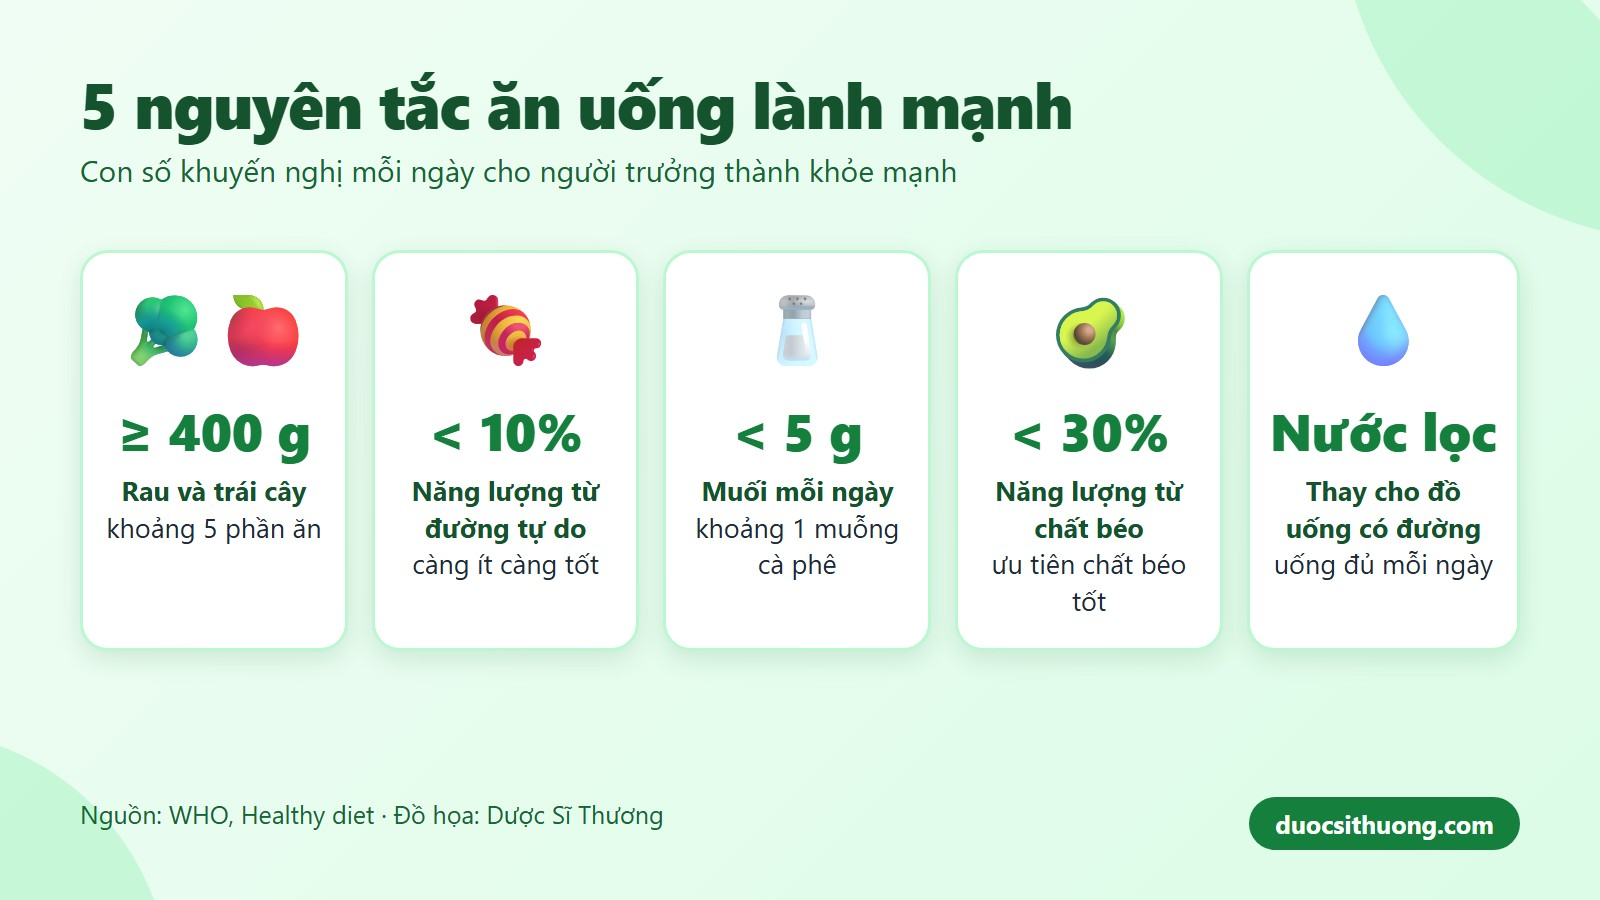
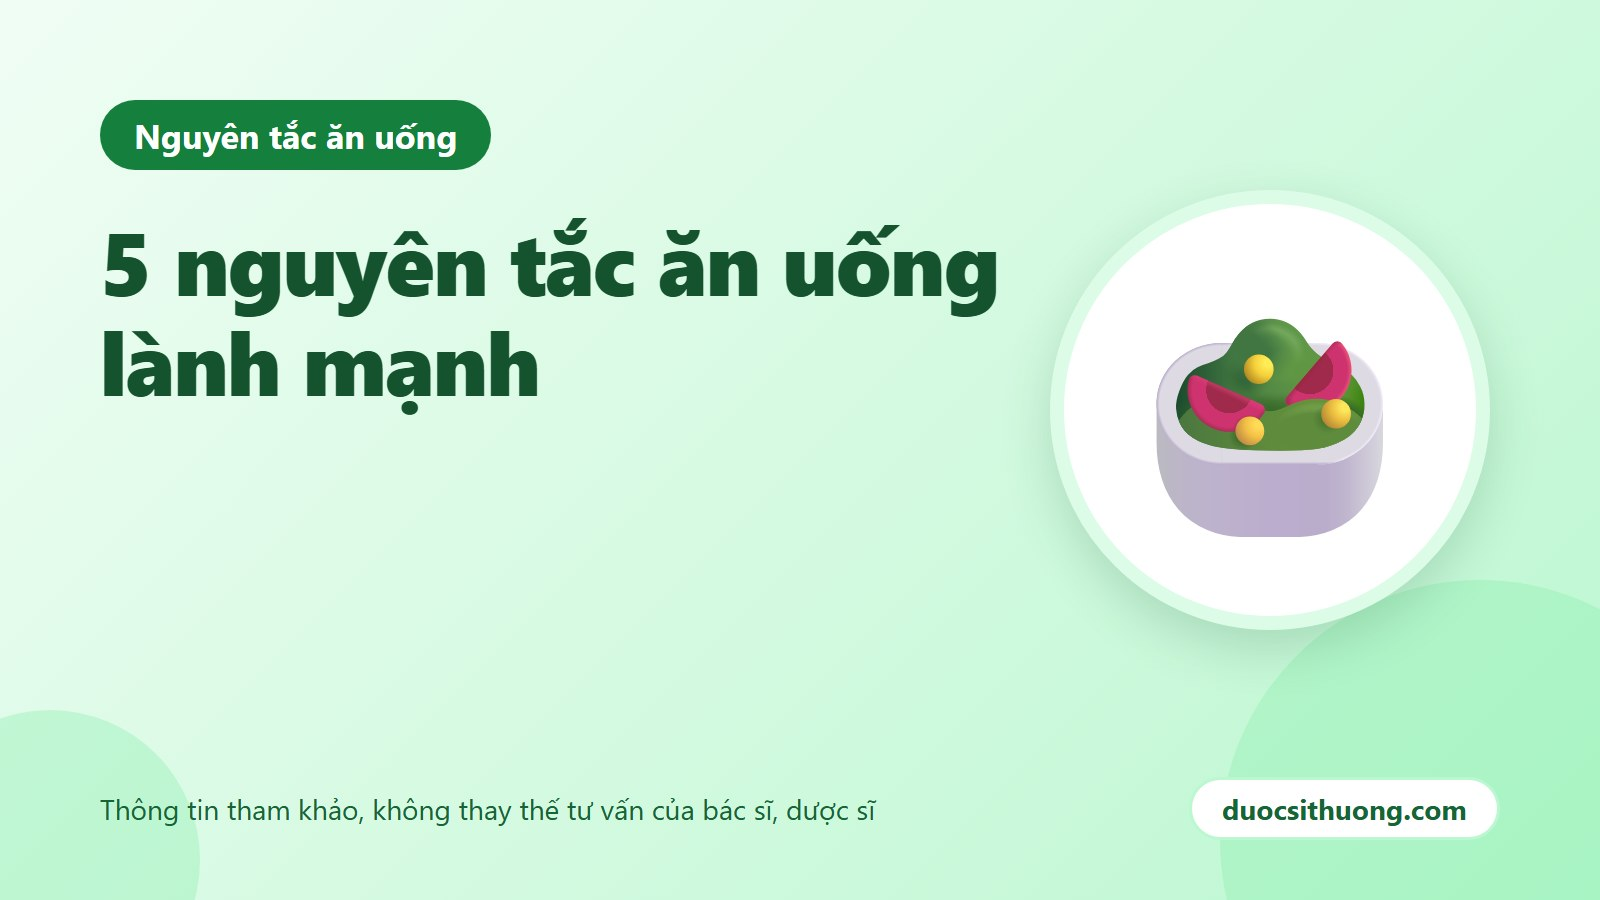
Redo the two infographics in "5 nguyên tắc ăn uống lành mạnh" for mobile readability
Simplify the cover to the standard label style (no data), move the 5 WHO
principles and the fat-limit breakdown into two new 1000px-wide, large-text
images (hinh-1.jpg, hinh-2.jpg), replacing the old 1600x900 widescreen
graphics whose text became unreadable when scaled down on phones. Same WHO
Healthy diet figures, no new data.

diff --git a/src/content/posts/nguyen-tac-an-uong-lanh-manh.md b/src/content/posts/nguyen-tac-an-uong-lanh-manh.md
@@ -6,8 +6,8 @@ subcategory: "nguyen-tac"
 publishedAt: 2026-09-21
 updatedAt: 2026-09-21
 cover: "../../assets/posts/nguyen-tac-an-uong-lanh-manh/cover.jpg"
-coverAlt: "Đồ họa 5 nguyên tắc ăn uống lành mạnh mỗi ngày: ít nhất 400 g rau và trái cây, đường tự do dưới 10% năng lượng, muối dưới 5 g, chất béo dưới 30% năng lượng, uống nước lọc thay đồ uống có đường"
-coverCredit: "Đồ họa: Dược Sĩ Thương. Số liệu: WHO, Healthy diet."
+coverAlt: "Ảnh minh họa bài viết 5 nguyên tắc ăn uống lành mạnh: nhãn nhóm Nguyên tắc ăn uống, tiêu đề bài và biểu tượng bát salad trên nền xanh lá"
+coverCredit: "Đồ họa: Dược Sĩ Thương"
 sources:
   - title: "WHO - Healthy diet (Chế độ ăn lành mạnh)"
     url: "https://www.who.int/news-room/fact-sheets/detail/healthy-diet"
@@ -18,6 +18,9 @@ draft: false
 ## Tóm tắt nhanh
 
 Ăn uống lành mạnh không cần cầu kỳ. Bạn chỉ cần ăn đa dạng, nhiều rau quả, ít đường, ít muối và ít chất béo không tốt. Các con số dưới đây áp dụng cho **người trưởng thành khỏe mạnh**.
+
+![5 nguyên tắc ăn uống lành mạnh theo WHO: ăn đa dạng ít nhất 400 g rau và trái cây mỗi ngày, đường tự do dưới 10% năng lượng, muối dưới 5 g mỗi ngày, tổng chất béo dưới 30% năng lượng, ưu tiên nước lọc](../../assets/posts/nguyen-tac-an-uong-lanh-manh/hinh-1.jpg)
+*Đồ họa: Dược Sĩ Thương. Nguồn: WHO, Healthy diet.*
 
 ## 1. Ăn đa dạng, nhiều rau và trái cây
 
@@ -38,8 +41,8 @@ Nên dùng **dưới 5 g muối mỗi ngày** (khoảng 1 muỗng cà phê). Lư
 - Chất béo chuyển hóa (có trong một số đồ chiên rán, bánh nướng công nghiệp) nên dưới 1%.
 - Ưu tiên chất béo không bão hòa như cá, quả bơ, các loại hạt và dầu thực vật.
 
-![Biểu đồ cột ngang thể hiện giới hạn chất béo mỗi ngày theo tỷ lệ tổng năng lượng ăn vào: tổng chất béo dưới 30%, chất béo bão hòa dưới 10%, chất béo chuyển hóa dưới 1%](../../assets/posts/nguyen-tac-an-uong-lanh-manh/fats.jpg)
-*Đồ họa: Dược Sĩ Thương. Số liệu: WHO, Healthy diet.*
+![Giới hạn chất béo mỗi ngày tính theo % tổng năng lượng ăn vào: tổng chất béo dưới 30%, chất béo bão hòa dưới 10%, chất béo chuyển hóa dưới 1%, ưu tiên chất béo không bão hòa từ cá, quả bơ, các loại hạt, dầu thực vật](../../assets/posts/nguyen-tac-an-uong-lanh-manh/hinh-2.jpg)
+*Đồ họa: Dược Sĩ Thương. Nguồn: WHO, Healthy diet.*
 
 ## 5. Uống đủ nước lọc
 

diff --git a/CLAUDE.md b/CLAUDE.md
@@ -288,7 +288,7 @@ Mỗi bài nên có **ảnh đại diện** (`cover`) và 1-3 hình minh họa t
 - **Mô tả ảnh (alt) bắt buộc** với ảnh đại diện (build sẽ báo lỗi nếu thiếu `coverAlt`) và nên có với mọi ảnh: mô tả nội dung/số liệu trong ảnh, không viết chung chung như "hình minh họa".
 - **Bản quyền:** chỉ dùng (1) ảnh do chủ website tự chụp, (2) đồ họa tự thiết kế, (3) ảnh có giấy phép cho dùng miễn phí như Unsplash, Pexels, Pixabay hoặc Wikimedia Commons, **ghi rõ nguồn** ở `coverCredit` hoặc dòng in nghiêng. **Không lấy ảnh từ website khác, từ Google Hình ảnh hay từ Facebook** khi chưa được phép. Nếu chưa chắc giấy phép thì không dùng.
 - **Nội dung ảnh:** không dùng ảnh bệnh nhân thật, ảnh gây sốc hoặc phản cảm (vết thương, bệnh ngoài da...), ảnh trước-sau như hứa hẹn điều trị, ảnh có logo/thương hiệu thuốc hay thực phẩm chức năng cụ thể (tránh thành quảng cáo). Không đưa hình có khuôn mặt người khác khi chưa được đồng ý.
-- **Số liệu trong đồ họa** phải khớp đúng với nguồn trong bài; biểu đồ vẽ đúng tỷ lệ, không phóng đại. Ví dụ mẫu: bài "5 nguyên tắc ăn uống lành mạnh" có hai đồ họa tự thiết kế (số liệu WHO). Các đồ họa mẫu này được dựng bằng HTML/CSS rồi chụp thành ảnh (màu xanh lá `#15803d`, nền `#f0fdf4`, cam `#ea580c` để nhấn), có ghi nguồn và địa chỉ website ở chân ảnh.
+- **Số liệu trong đồ họa** phải khớp đúng với nguồn trong bài; biểu đồ vẽ đúng tỷ lệ, không phóng đại. Ví dụ mẫu: bài "5 nguyên tắc ăn uống lành mạnh" có ảnh bìa kiểu nhãn nhóm và hai hình minh họa dạng danh sách ô lớn (`hinh-1.jpg`, `hinh-2.jpg`, số liệu WHO; làm lại 2026-09-22 theo khổ 1000px/chữ lớn thay cho bản 1600x900 cũ khó đọc trên điện thoại). Đồ họa được dựng bằng HTML/CSS rồi chụp thành ảnh (màu xanh lá `#15803d`, nền `#f0fdf4`, cam `#ea580c` để nhấn), có ghi nguồn và địa chỉ website ở chân ảnh; xem thêm mục "Ảnh đại diện của các bài về thuốc" và "Hình trong bài về thuốc" phía trên cho quy cách khổ 1000px/chữ ≥30px.
 
 ### Định hướng chung
 

diff --git a/docs/ghi-chu-kiem-duyet-thieu-gi-an-gi.md b/docs/ghi-chu-kiem-duyet-thieu-gi-an-gi.md
@@ -53,4 +53,4 @@ Trạng thái: 8 bài đã đăng ở dạng "bản xem thử" (có khung vàng,
 - Cần kiểm tra thêm: cách diễn đạt liều bổ sung cho phụ nữ chuẩn bị mang thai theo khuyến cáo của Bộ Y tế Việt Nam; mục "Khi nào cần đi khám".
 
 ### nguyen-tac-an-uong-lanh-manh (bài đã có từ trước, nay thuộc nhóm "Nguyên tắc ăn uống")
-- Nguồn: WHO Healthy diet. Hai hình minh họa làm trước có chữ nhỏ, nên làm lại theo khổ mới cho dễ đọc trên điện thoại.
+- Nguồn: WHO Healthy diet. **Đã làm lại ảnh (2026-09-22):** ảnh bìa đổi sang kiểu nhãn nhóm đơn giản (giống các bài khác, không còn chứa số liệu); 2 hình minh họa cũ (`cover.jpg` bản gộp 5 nguyên tắc, `fats.jpg`) thay bằng `hinh-1.jpg`/`hinh-2.jpg` theo khổ 1000px, chữ lớn, dễ đọc trên điện thoại. Số liệu giữ nguyên như bản cũ, không thêm nguồn mới.
